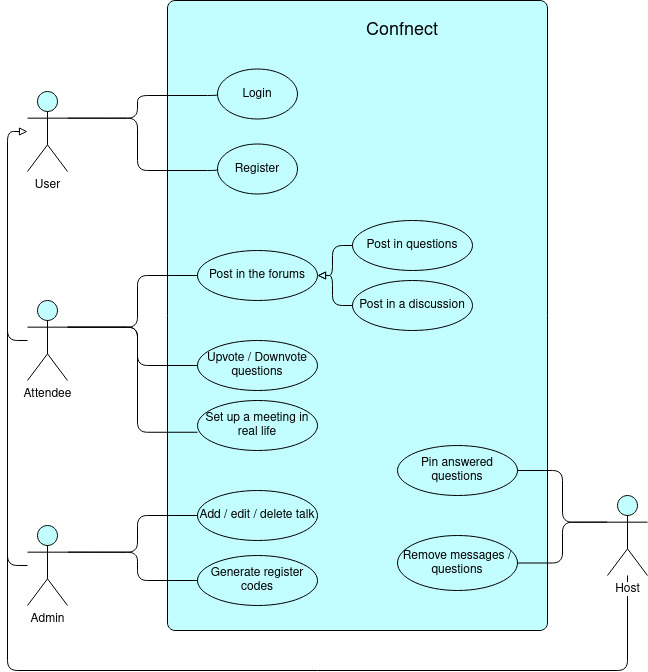
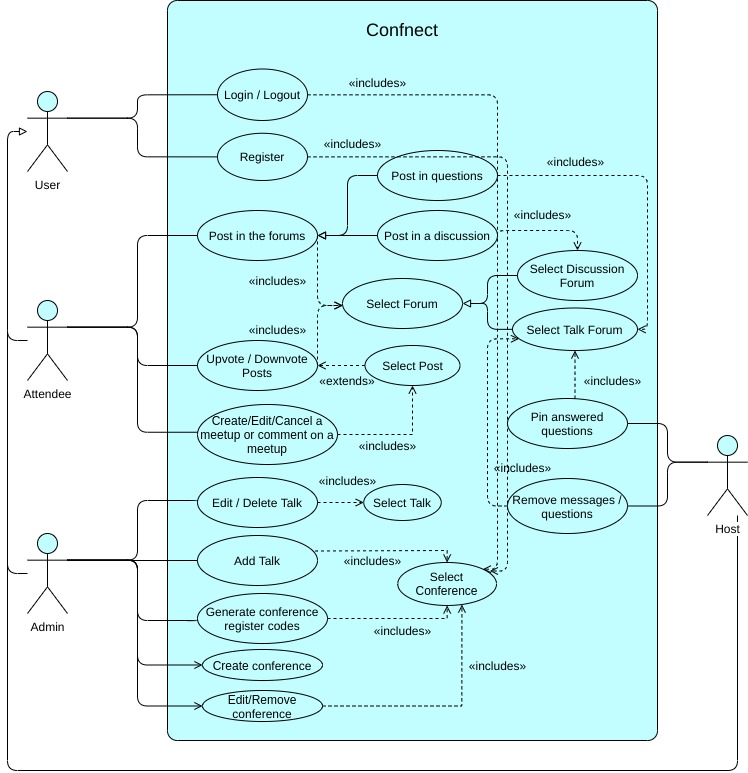
Added problemDomain and useCaseDiagram; filled product increment #3 info

diff --git a/README.md b/README.md
@@ -643,6 +643,7 @@ As an administrator, I want to be able to reuse the app with other conferences, 
 
 ### Domain model
 
+<img src="docs/problemDomain.jpg" width="700"/>
 
 ---
 
@@ -682,6 +683,21 @@ For this iteration we implemented:
 - [Answer posts / Questions](#answer-posts--questions)
 
 Release: [v0.2](https://github.com/FEUP-ESOF-2020-21/open-cx-t7g2-hamelin-flutters/releases/tag/v0.2).
+
+### Product increment #3
+
+For this iteration we implemented:
+- [Profile Page](#profile-page)
+- [Edit talks](#edit-talks)
+- [Host answers posts/questions and has answer pinned](#answer-posts--questions)
+- [Suggest Physical Meeting](#suggest-physical-meeting)
+- [Comment on a Physical Meeting](#comment-on-a-physical-meeting)
+- [Search page](#search-page)
+- [Interest-based Post / Forum Suggestions](#interest-based-post--forum-suggestions)
+- [Main Page](#main-page)
+- [Generate Forums From Talks](#generate-forums-from-talks)
+
+Release: [v0.3](https://github.com/FEUP-ESOF-2020-21/open-cx-t7g2-hamelin-flutters/releases/tag/v0.3).
 
 ---
 ## Test
